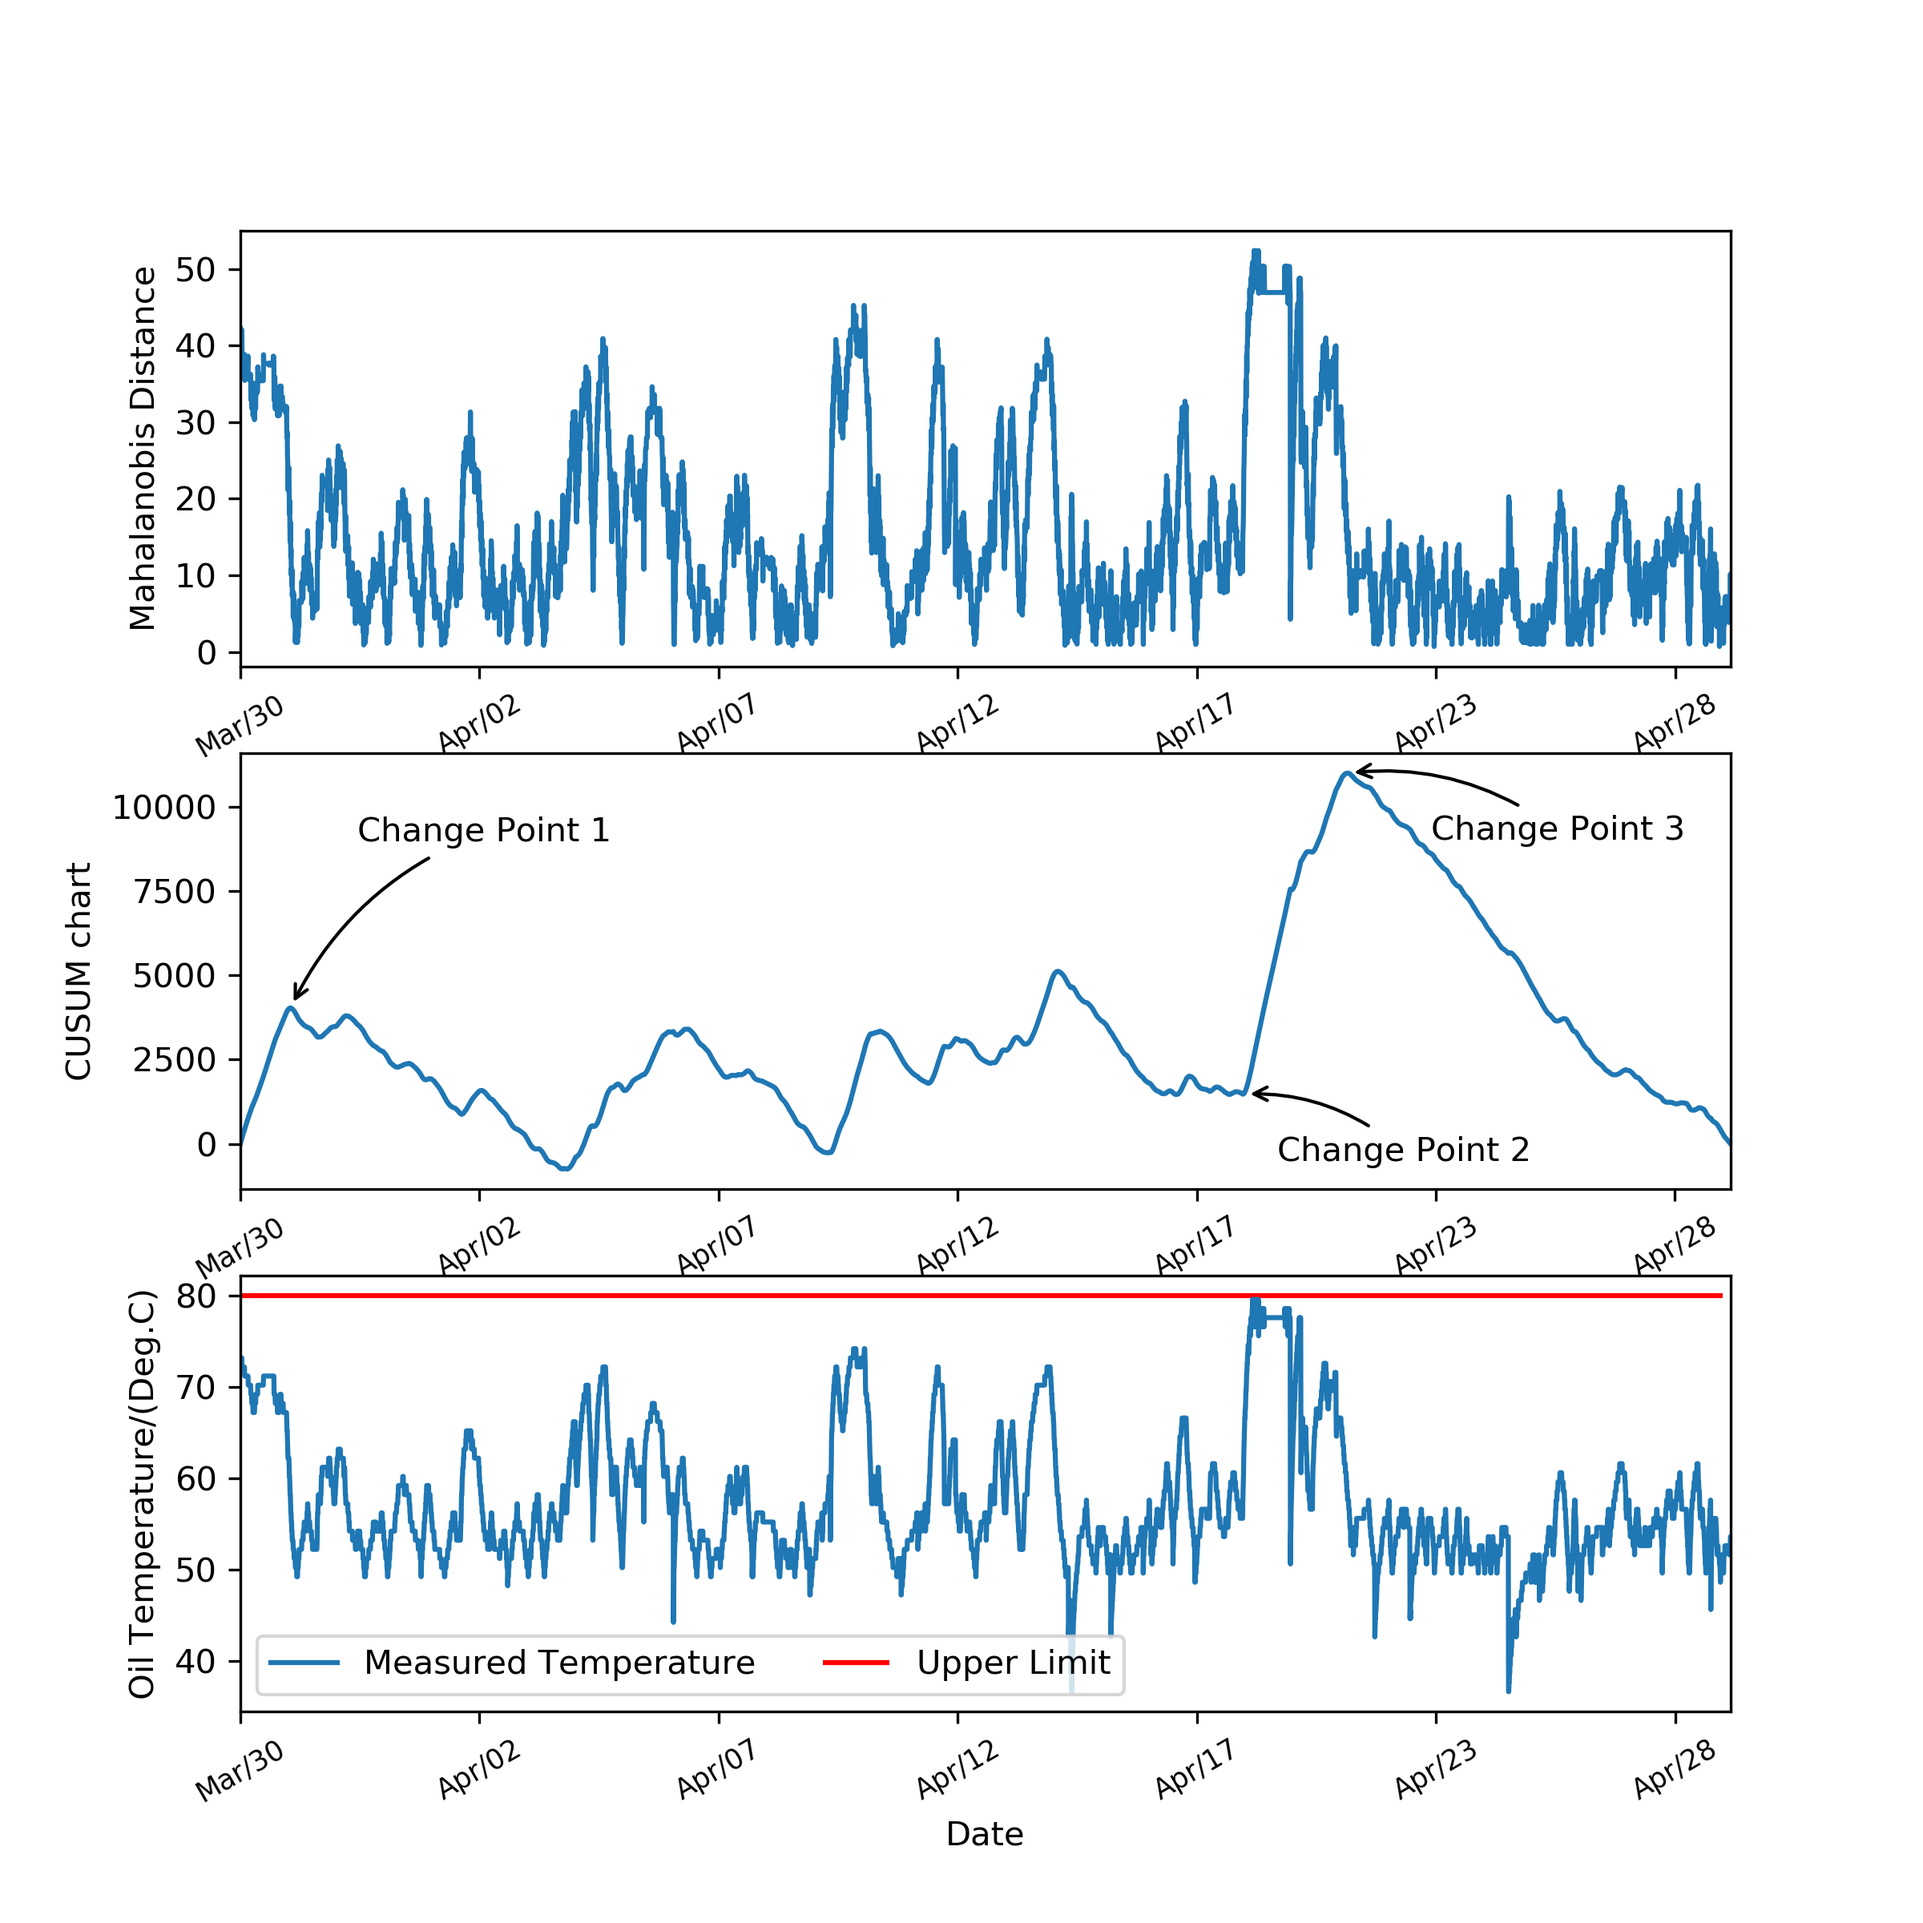
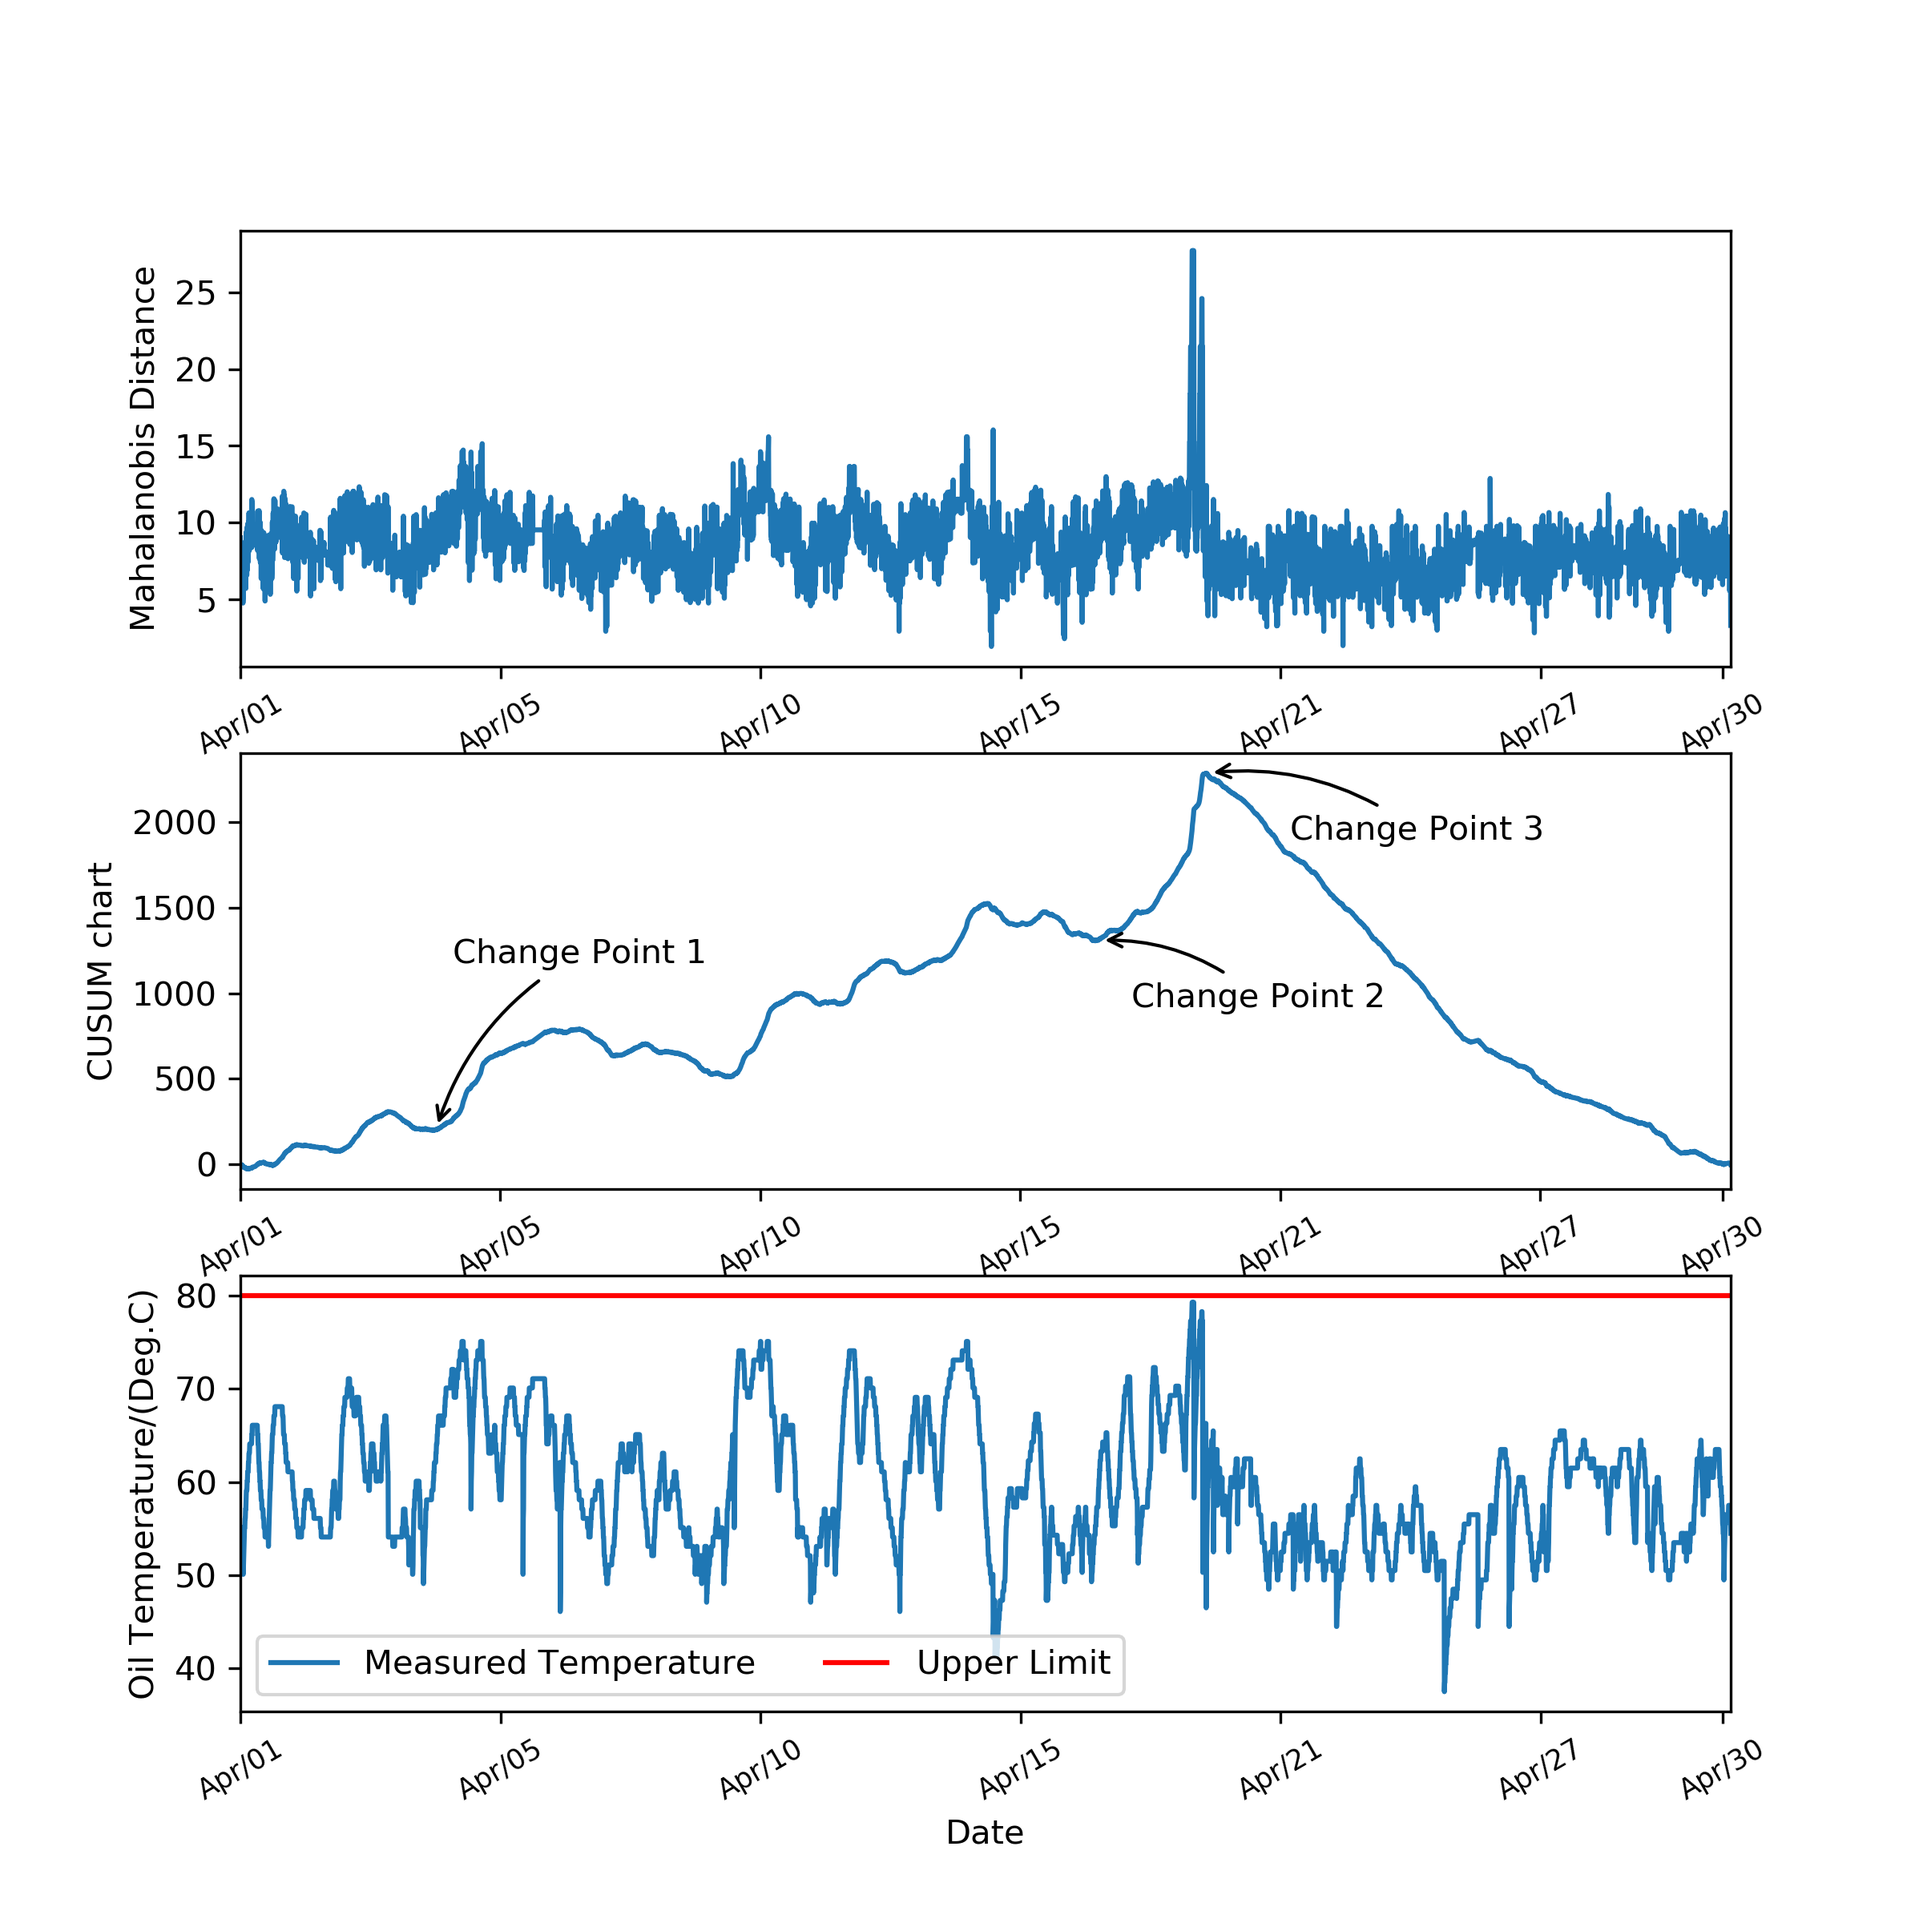
7.11

diff --git a/tk_23_test_model173.py b/tk_23_test_model173.py
@@ -1,0 +1,126 @@
+#coding:utf-8
+'''
+@Time: 2019/7/11 下午2:01
+@author: Tokyo
+@file: tk_23_test_model173.py
+@desc:#173号风机最终测试
+'''
+
+def stacking_MD(X_train, Y_train, X_test, Y_test):
+    import pandas as pd
+    import numpy as np
+    from scipy.spatial.distance import pdist, mahalanobis
+    from xgboost import XGBRegressor
+    from sklearn.ensemble import RandomForestRegressor, GradientBoostingRegressor
+    from mlxtend.regressor import StackingCVRegressor
+
+    xgb = XGBRegressor()
+    rfr = RandomForestRegressor()
+    gbdt = GradientBoostingRegressor()
+    # stacking model
+    srgr = StackingCVRegressor(regressors=[xgb, rfr, gbdt], meta_regressor=xgb, cv=5)
+    srgr.fit(X_train, Y_train)
+    # 计算马氏距离
+    # 1.训练集,求得马氏距离检测异常的阈值
+    Y_pred = srgr.predict(X_train)
+    # Y_train = Y_train.flatten()
+    # 计算马氏距离
+    err = Y_train - Y_pred
+    X_ref = np.array([err, Y_train])
+    X_ref = X_ref.T
+    # 均值
+    u = X_ref.mean(axis=0)
+    delta = X_ref - u
+    cov = np.cov(X_ref.T)
+    inv = np.linalg.inv(cov)
+    MD = []
+    for i in range(len(X_train)):
+        MD.append(mahalanobis(X_ref[i], u, inv))
+
+    # 2.验证集(用于异常检测)
+    Y_pred2 = srgr.predict(X_test)
+    # Y_test = Y_test.flatten()
+
+    # 计算马氏距离
+    err_test = Y_test - Y_pred2
+
+    X_app = np.array([err_test, Y_test])
+    X_app = X_app.T
+    # 均值u和协方差矩阵inv均使用训练集得出的值
+    MD_app = []
+    for i in range(len(X_test)):
+        MD_app.append(mahalanobis(X_app[i], u, inv))
+    md = pd.Series(MD_app)
+    return md
+
+
+
+def main():
+    import pandas as pd
+    import numpy as np
+    from tk_18_data_preprocessing import wt_preprocessing
+    import matplotlib.pyplot as plt
+    from tk_tools import wt_Cusum_change_point_detection
+    df_train = pd.read_csv('./data/final data/#173/data2018_half_year_train.csv')
+    X_train, Y_train, names = wt_preprocessing(df_train, False)
+    df_test = pd.read_csv('./data/final data/#173/data2018_April_test.csv')
+    df_test = df_test.drop_duplicates(subset=['date'])
+
+    X_test, Y_test, names2 = wt_preprocessing(df_test, False)
+    md_159 = stacking_MD(X_train, Y_train, X_test, Y_test)
+    # wt_Cusum_change_point_detection(md_159, 1000, 0.99)
+    f = plt.figure(figsize=(8, 8))
+
+    # 计算Cusum序列
+    arr = np.array(md_159)
+    s = np.zeros(len(arr) + 1)
+    for i in range(1, len(arr)):
+        s[i] = s[i - 1] + (arr[i - 1] - arr.mean())
+    s = pd.Series(s)
+    # 马氏距离序列图
+    ax1 = f.add_subplot(3, 1, 1)
+    md_159.plot()
+    x_ticks = ax1.set_xticks([0, 1000, 2000, 3000, 4000, 5000, 5700])
+    x_labels = ax1.set_xticklabels(["Apr/01", "Apr/05", "Apr/10", "Apr/15", "Apr/21", "Apr/27",  "Apr/30"],
+                                   rotation=30, fontsize="small")
+    plt.ylabel('Mahalanobis Distance')
+
+    ax2 = f.add_subplot(3, 1, 2)
+    s.plot()
+    x_ticks = ax2.set_xticks([0, 1000, 2000, 3000, 4000, 5000, 5700])
+    x_labels = ax2.set_xticklabels(["Apr/01", "Apr/05", "Apr/10", "Apr/15", "Apr/21", "Apr/27",  "Apr/30"],
+                                   rotation=30, fontsize="small")
+    plt.ylabel('CUSUM chart')
+    # 加注释
+    plt.annotate('Change Point 1', xy=(752, s[752]), xycoords='data',
+                 xytext=(+5, +50), textcoords='offset points',
+                 arrowprops=dict(arrowstyle='->', connectionstyle='arc3,rad=.2'))
+    plt.annotate('Change Point 2', xy=(3299, s[3299]), xycoords='data',
+                 xytext=(+10, -20), textcoords='offset points',
+                 arrowprops=dict(arrowstyle='->', connectionstyle='arc3,rad=.2'))
+    plt.annotate('Change Point 3', xy=(3716, s[3716]), xycoords='data',
+                 xytext=(+25, -20), textcoords='offset points',
+                 arrowprops=dict(arrowstyle='->', connectionstyle='arc3,rad=.2'))
+    # plt.annotate('Change Point 4', xy=(4252, s[4252]), xycoords='data',
+    #              xytext=(+25, +10), textcoords='offset points',
+    #              arrowprops=dict(arrowstyle='->', connectionstyle='arc3,rad=.2'))
+
+    ax3 = f.add_subplot(3, 1, 3)
+    df_oil = df_test['Gearbox_oil_temp']
+    df_oil.plot(label='Measured Temperature')
+    x_ticks = ax3.set_xticks([0, 1000, 2000, 3000, 4000, 5000, 5700])
+    x_labels = ax3.set_xticklabels(["Apr/01", "Apr/05", "Apr/10", "Apr/15", "Apr/21", "Apr/27",  "Apr/30"],
+                                   rotation=30, fontsize="small")
+    plt.ylabel('Oil Temperature/(Deg.C)')
+    plt.xlabel('Date')
+    plt.hlines(y=80, xmin=0, xmax=6200, colors='r', label='Upper Limit')
+    plt.legend(loc='lower left', ncol=2)
+    plt.savefig('./data/figure/#159result.png', dpi=300)
+    plt.show()
+
+
+
+
+
+if __name__ == '__main__':
+    main()
